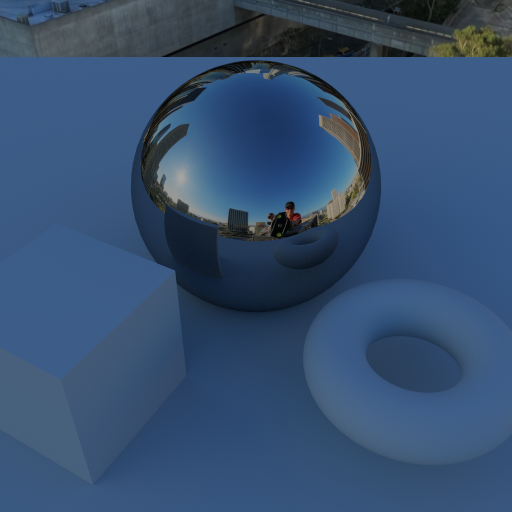
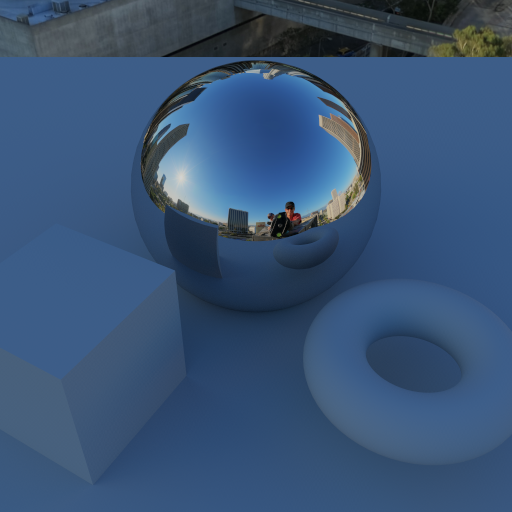
edit 214 test, simplify material

Changed region(s): [[0.25, 0.125, 0.75, 0.5625], [0.5938, 0.5625, 0.625, 0.5938], [0.3438, 0.5312, 0.375, 0.5625]]

diff --git a/main.cpp b/main.cpp
@@ -224,15 +224,10 @@ int main(int argc, const char** argv)
     //LGHT_TESTS::test_207_ies2();
     //LGHT_TESTS::test_208_ies3();
     //LGHT_TESTS::test_216_ies4(); 
-    LGHT_TESTS::test_232_point_area_ies();    
-         
-    if(false) // run tests to generate data for hydra3
-    {
-      test_046_light_geom_rect();
-      test_047_light_geom_disk();
-      test_078_material_remap_list1();
-      test_079_material_remap_list2();
-      
+    //LGHT_TESTS::test_214_sky_ldr();  
+
+    if(true) // run tests to generate data for hydra3
+    { 
       MTL_TESTS::test_101_diffuse_lambert_orbspec_mat01();
       MTL_TESTS::test_102_mirror_orbspec_mat02();
       MTL_TESTS::test_103_diffuse_texture();
@@ -242,6 +237,10 @@ int main(int argc, const char** argv)
       MTL_TESTS::test_127_normal_map_height();
       
       LGHT_TESTS::test_201_sphere();
+      LGHT_TESTS::test_203_sky_hdr();
+      LGHT_TESTS::test_204_sky_hdr_rotate();  
+      LGHT_TESTS::test_214_sky_ldr();  
+
       LGHT_TESTS::test_206_ies1();
       LGHT_TESTS::test_207_ies2();
       LGHT_TESTS::test_208_ies3();
@@ -255,6 +254,11 @@ int main(int argc, const char** argv)
       LGHT_TESTS::test_228_point_ies_for_bpt();
       LGHT_TESTS::test_246_disk();
       LGHT_TESTS::test_247_light_scale_intensity();
+
+      test_046_light_geom_rect();
+      test_047_light_geom_disk();
+      test_078_material_remap_list1();
+      test_079_material_remap_list2();
     }
 
     //run_all_microfacet_torrance_sparrow();

diff --git a/tests_lights1.cpp b/tests_lights1.cpp
@@ -3680,9 +3680,7 @@ namespace LGHT_TESTS
 		HRMaterialRef matGray = hrMaterialCreate(L"matGray");
 		HRMaterialRef matRefl = hrMaterialCreate(L"matRefl");
 
-
 		HRTextureNodeRef texEnv = hrTexture2DCreateFromFile(L"data/textures/LA_Downtown_Afternoon_Fishing_B_8k.jpg");
-
 
 		hrMaterialOpen(matGray, HR_WRITE_DISCARD);
 		{
@@ -3699,14 +3697,13 @@ namespace LGHT_TESTS
 		hrMaterialOpen(matRefl, HR_WRITE_DISCARD);
 		{
 			auto matNode = hrMaterialParamNode(matRefl);
-
 			auto refl = matNode.append_child(L"reflectivity");
-			refl.append_attribute(L"brdf_type").set_value(L"torranse_sparrow");
-			refl.append_child(L"color").append_attribute(L"val").set_value(L"0.8 0.8 0.8");
-			refl.append_child(L"glossiness").append_attribute(L"val").set_value(L"1.0");
-			refl.append_child(L"extrusion").append_attribute(L"val").set_value(L"maxcolor");
-			refl.append_child(L"fresnel").append_attribute(L"val").set_value(1);
-			refl.append_child(L"fresnel_IOR").append_attribute(L"val").set_value(8.0f);
+			refl.append_attribute(L"brdf_type")                        = L"ggx";
+			refl.append_child(L"color").append_attribute(L"val")       = L"0.65 0.65 0.65";
+			refl.append_child(L"glossiness").append_attribute(L"val")  = 1.0f;
+			refl.append_child(L"extrusion").append_attribute(L"val")   = L"maxcolor";
+			refl.append_child(L"fresnel").append_attribute(L"val")     = 0.0f;
+			refl.append_child(L"fresnel_IOR").append_attribute(L"val") = 1.5f;
 		}
 		hrMaterialClose(matRefl);
 
